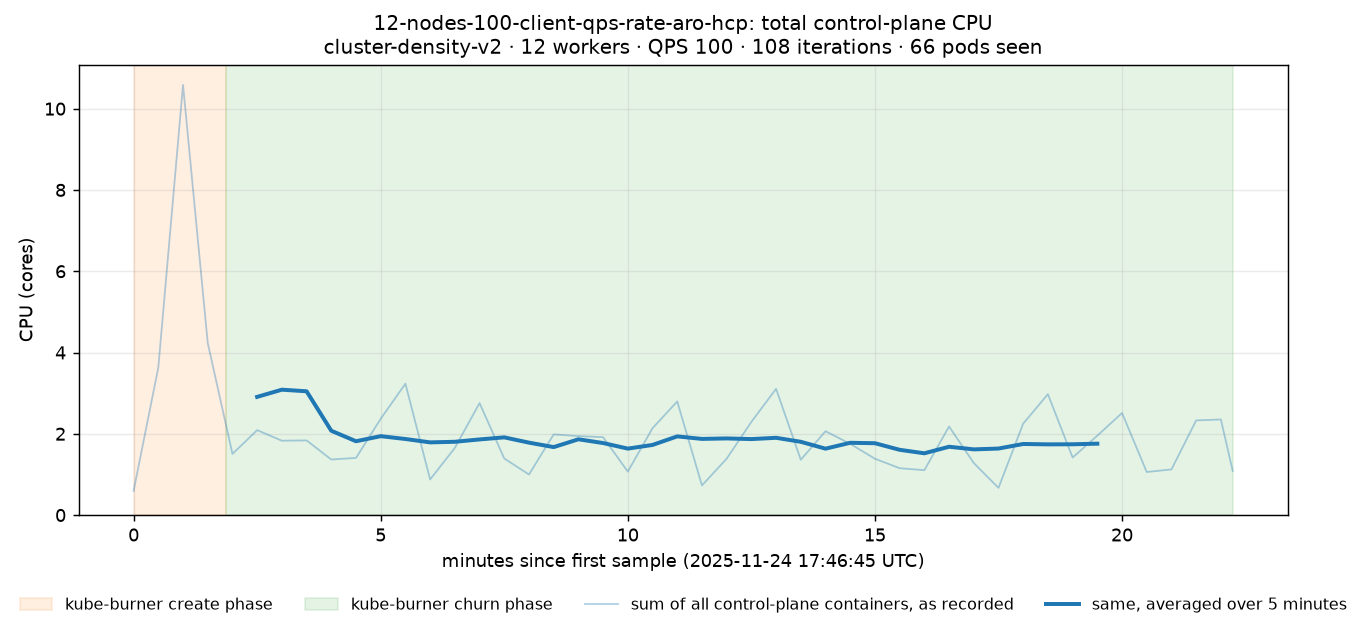
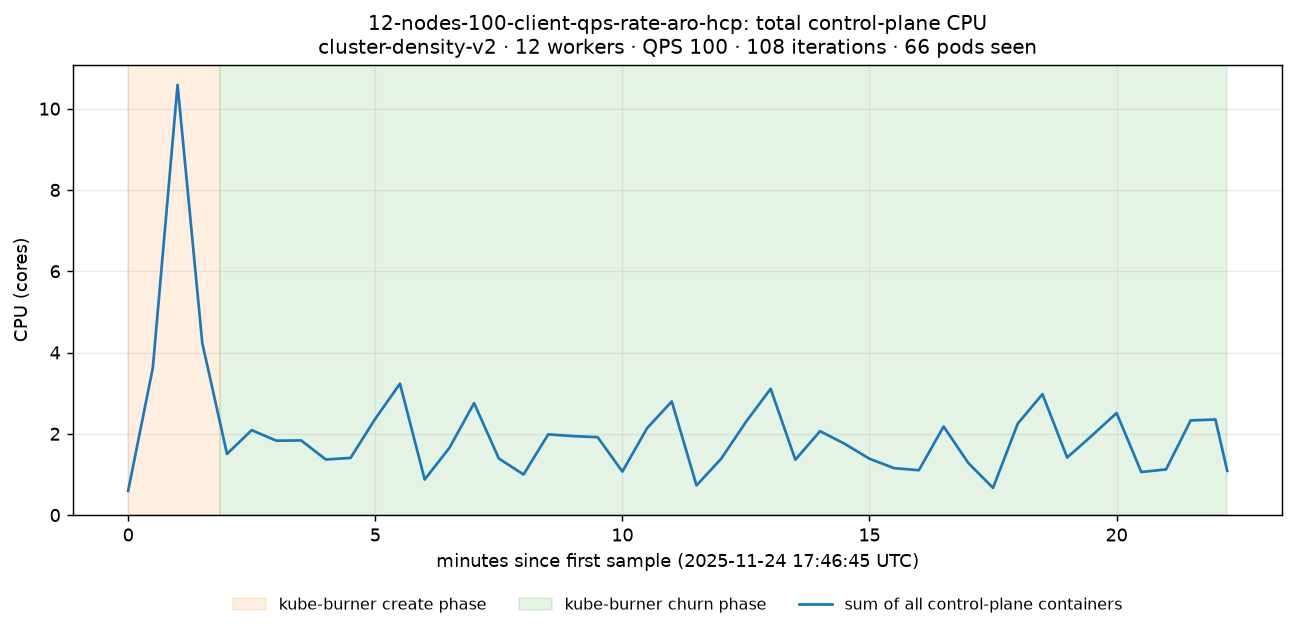
fix: drop the 5-minute average from the CPU graphs and shade missing readings

diff --git a/hack/hcp-scale-analysis/pm-page.html b/hack/hcp-scale-analysis/pm-page.html
@@ -132,7 +132,7 @@
   </section>
 </main>
 
-<script id="page-data" type="application/json">{"sizes": [{"size": "3", "run": "3-node-aro-hcp", "trust": "caveats", "date": "2026-03-03", "notes": "Memory is complete, but only 74% of CPU readings exist, so its CPU numbers, especially peaks, are less reliable. Its CPU graph marks the moments that read low, and its totals fill in the missing readings. Runs a newer OpenShift (4.20) than most runs (4.19).", "own_cores": 2.71, "total_cores": 25.19}, {"size": "6", "run": "6-node-aro-hcp", "trust": "caveats", "date": "2026-03-03", "notes": "Only 72% of CPU readings exist and a few memory readings are missing, so its CPU numbers, especially peaks, are less reliable. Its graphs mark the moments that read low, and its totals fill in the missing readings. Runs a newer OpenShift (4.20) than most runs (4.19).", "own_cores": 4.08, "total_cores": 25.19}, {"size": "12", "run": "12-nodes-20-client-qps-rate-aro-hcp", "trust": "good", "date": "2025-11-14", "notes": "Complete data. Its churn phase was set to 30 minutes instead of the usual 20, and an earlier kube-apiserver rollout was just finishing as churn began (the last old copy's last reading is 12 seconds into it), which barely affects the numbers.", "own_cores": 5.52, "total_cores": 25.19}, {"size": "30", "run": "30-node-aro-hcp", "trust": "good", "date": "2025-10-10", "notes": "Complete data.", "own_cores": 7.83, "total_cores": 25.19}, {"size": "49", "run": "49-node-hcp-raw", "trust": "caveats", "date": "2026-08-14", "notes": "Complete data, but a different setup from the other runs: newer OpenShift (4.22, most runs are 4.19) and kube-burner (1.11.12) versions, and the only run with a router. Uses more memory than the 60-node run.", "own_cores": 9.26, "total_cores": 25.19}, {"size": "60", "run": "60-node-aro-hcp", "trust": "good", "date": "2025-10-15", "notes": "Complete data, with a long churn phase (36 minutes).", "own_cores": 5.44, "total_cores": 25.21}, {"size": "120", "run": "120-node-aro-hcp", "trust": "good", "date": "2025-10-20", "notes": "Complete data, with a long churn phase (33 minutes). Its busiest kube-apiserver copy's memory levels off at about 12 GiB, the soft memory limit (GOMEMLIMIT) production sets for clusters of 61 to 120 nodes, so the limit probably held it there and its memory numbers would change with the limit.", "own_cores": 8.28, "total_cores": 25.2}, {"size": "250", "run": "250-node-aro-hcp", "trust": "good", "date": "2025-10-23", "notes": "Complete once its duplicate records are removed, which the scripts do, with a long churn phase (63 minutes). Its busiest kube-apiserver copy's memory levels off just under 24 GiB, the soft memory limit (GOMEMLIMIT) production sets for clusters of 121 to 252 nodes, so the limit probably held it there and its memory numbers would change with the limit.", "own_cores": 18.92, "total_cores": 38.89}, {"size": "500", "run": "500-node-aro-hcp", "trust": "low", "date": "2025-10-30", "notes": "No churn phase, and memory climbs until near the end: memory comes from its last 10 minutes, once it has leveled off, and CPU from the whole run, which is all create phase and so a conservative (high) estimate. The memory may be a few percent low, as in the large runs (60 to 250 nodes) churn-phase memory was 0 to 8% above the end of their create phase. Ran with 498 workers. Its duplicate records are removed by the scripts.", "own_cores": 36.59, "total_cores": 74.26}], "assumptions": ["Usage comes from one kube-burner scale test per cluster size: for each container, the 95th percentile of all its copies' readings during the test's steady churn phase. A pod reserves what its containers add up to.", "Own cores: what one cluster's own control-plane pods reserve, including a router and two login components that every cluster runs.", "Shared cores: the cluster's share of what no single cluster owns: system reservations and agents on every machine, spare room for upgrades and a zone failure, placeholder slots for new clusters, and room left unused when machines fill up on one resource first. It comes from the scheduling simulator packing a sample mix of 520 clusters (10 of 3 nodes, 10 of 6 nodes, 200 of 12 nodes, 150 of 30 nodes, 10 of 49 nodes, 80 of 60 nodes, 40 of 120 nodes, 10 of 250 nodes, 10 of 500 nodes) onto production's management-cluster machines, Standard_E32ds_v6 (32 cores, 256 GiB).", "Placement: today's placement, with 3 copies of each API server, one in each availability zone.", "No safety margin is added.", "These are estimates for planning, not an exact bill. They cover the management-cluster machines only, and don't include costs in dollars yet."], "notes_for_all_runs": "Each size has only one test run, so how much its numbers would vary between runs is unknown. The runs also weren't set up the same way: three OpenShift versions (4.19, 4.20, 4.22), four kube-burner versions (1.6.9, 1.7.9, 1.8.0, 1.11.12), a 30-second or 2-minute churn delay, and churn phases that actually lasted 20 to 63 minutes (most were set to 20), so comparing sizes partly compares setups. The shortest churn phases (20 to 23 minutes: 3, 6 and 12 nodes at 100 QPS, 30 and 49 nodes) have only about 40 to 47 readings per copy, so a copy's CPU p95 is about its third-highest reading."}</script>
+<script id="page-data" type="application/json">{"sizes": [{"size": "3", "run": "3-node-aro-hcp", "trust": "caveats", "date": "2026-03-03", "notes": "Memory is complete, but only 74% of CPU readings exist, so its CPU numbers, especially peaks, are less reliable. Its CPU graph adds a line with the missing readings filled in, and its totals fill them in too. Runs a newer OpenShift (4.20) than most runs (4.19).", "own_cores": 2.71, "total_cores": 25.19}, {"size": "6", "run": "6-node-aro-hcp", "trust": "caveats", "date": "2026-03-03", "notes": "Only 72% of CPU readings exist and a few memory readings are missing, so its CPU numbers, especially peaks, are less reliable. Its graphs add a line with the missing readings filled in, and its totals fill them in too. Runs a newer OpenShift (4.20) than most runs (4.19).", "own_cores": 4.08, "total_cores": 25.19}, {"size": "12", "run": "12-nodes-20-client-qps-rate-aro-hcp", "trust": "good", "date": "2025-11-14", "notes": "Complete data. Its churn phase was set to 30 minutes instead of the usual 20, and an earlier kube-apiserver rollout was just finishing as churn began (the last old copy's last reading is 12 seconds into it), which barely affects the numbers.", "own_cores": 5.52, "total_cores": 25.19}, {"size": "30", "run": "30-node-aro-hcp", "trust": "good", "date": "2025-10-10", "notes": "Complete data.", "own_cores": 7.83, "total_cores": 25.19}, {"size": "49", "run": "49-node-hcp-raw", "trust": "caveats", "date": "2026-08-14", "notes": "Complete data, but a different setup from the other runs: newer OpenShift (4.22, most runs are 4.19) and kube-burner (1.11.12) versions, and the only run with a router. Uses more memory than the 60-node run.", "own_cores": 9.26, "total_cores": 25.19}, {"size": "60", "run": "60-node-aro-hcp", "trust": "good", "date": "2025-10-15", "notes": "Complete data, with a long churn phase (36 minutes).", "own_cores": 5.44, "total_cores": 25.21}, {"size": "120", "run": "120-node-aro-hcp", "trust": "good", "date": "2025-10-20", "notes": "Complete data, with a long churn phase (33 minutes). Its busiest kube-apiserver copy's memory levels off at about 12 GiB, the soft memory limit (GOMEMLIMIT) production sets for clusters of 61 to 120 nodes, so the limit probably held it there and its memory numbers would change with the limit.", "own_cores": 8.28, "total_cores": 25.2}, {"size": "250", "run": "250-node-aro-hcp", "trust": "good", "date": "2025-10-23", "notes": "Complete once its duplicate records are removed, which the scripts do, with a long churn phase (63 minutes). Its busiest kube-apiserver copy's memory levels off just under 24 GiB, the soft memory limit (GOMEMLIMIT) production sets for clusters of 121 to 252 nodes, so the limit probably held it there and its memory numbers would change with the limit.", "own_cores": 18.92, "total_cores": 38.89}, {"size": "500", "run": "500-node-aro-hcp", "trust": "low", "date": "2025-10-30", "notes": "No churn phase, and memory climbs until near the end: memory comes from its last 10 minutes, once it has leveled off, and CPU from the whole run, which is all create phase and so a conservative (high) estimate. The memory may be a few percent low, as in the large runs (60 to 250 nodes) churn-phase memory was 0 to 8% above the end of their create phase. Ran with 498 workers. Its duplicate records are removed by the scripts.", "own_cores": 36.59, "total_cores": 74.26}], "assumptions": ["Usage comes from one kube-burner scale test per cluster size: for each container, the 95th percentile of all its copies' readings during the test's steady churn phase. A pod reserves what its containers add up to.", "Own cores: what one cluster's own control-plane pods reserve, including a router and two login components that every cluster runs.", "Shared cores: the cluster's share of what no single cluster owns: system reservations and agents on every machine, spare room for upgrades and a zone failure, placeholder slots for new clusters, and room left unused when machines fill up on one resource first. It comes from the scheduling simulator packing a sample mix of 520 clusters (10 of 3 nodes, 10 of 6 nodes, 200 of 12 nodes, 150 of 30 nodes, 10 of 49 nodes, 80 of 60 nodes, 40 of 120 nodes, 10 of 250 nodes, 10 of 500 nodes) onto production's management-cluster machines, Standard_E32ds_v6 (32 cores, 256 GiB).", "Placement: today's placement, with 3 copies of each API server, one in each availability zone.", "No safety margin is added.", "These are estimates for planning, not an exact bill. They cover the management-cluster machines only, and don't include costs in dollars yet."], "notes_for_all_runs": "Each size has only one test run, so how much its numbers would vary between runs is unknown. The runs also weren't set up the same way: three OpenShift versions (4.19, 4.20, 4.22), four kube-burner versions (1.6.9, 1.7.9, 1.8.0, 1.11.12), a 30-second or 2-minute churn delay, and churn phases that actually lasted 20 to 63 minutes (most were set to 20), so comparing sizes partly compares setups. The shortest churn phases (20 to 23 minutes: 3, 6 and 12 nodes at 100 QPS, 30 and 49 nodes) have only about 40 to 47 readings per copy, so a copy's CPU p95 is about its third-highest reading."}</script>
 <script>
 "use strict";
 (function () {

diff --git a/hack/hcp-scale-analysis/plot_controlplane_usage.py b/hack/hcp-scale-analysis/plot_controlplane_usage.py
@@ -6,19 +6,17 @@ pod metrics of the hosted cluster under test (the namespace containing
 jobSummary.clusterName), adds up every container at each timestamp, and writes
 these files to graphs/<dump name>/ next to this script (or to --output DIR):
 
-  total-cpu.png     total control-plane CPU (cores) over time, as recorded and averaged
-                    over 5 minutes; the average only makes the graph easier to read, as the
-                    numbers in container_usage.py and combine_usage.py use the readings as recorded
+  total-cpu.png     total control-plane CPU (cores) over time
   total-memory.png  total control-plane memory working set (GiB) over time
   summary.json      job settings, phase times, sampling interval, gaps, skipped duplicates
                     and missing readings
 
 Both graphs share one time axis and shade the kube-burner phases recorded in
 jobSummary, so a representative steady-state window can be picked by eye.
-A missing reading adds nothing to the recorded total, so where containers' readings are
-missing (as in the 3- and 6-node runs) the graphs mark each moment whose total is more than
-5% too low, and add a dashed estimate with each copy's missing readings filled in along a
-straight line from its neighboring readings. Graphs with no such moments don't change.
+A missing reading adds nothing to the recorded total, so where missing readings leave some
+moment's total more than 5% too low (as in the 3- and 6-node runs), the graphs add a dashed
+line with each copy's missing readings filled in along a straight line from its neighboring
+readings, and shade the gap between the two lines. Other graphs show only the recorded total.
 The output is meant to be committed, so it records the dump's file name but not
 the cluster ID or namespace; those are only printed to the terminal.
 
@@ -47,8 +45,7 @@ MEMORY_METRIC = "podMemory-Controlplane"  # container_memory_working_set_bytes
 CPU_TO_CORES = 1 / 100
 BYTES_TO_GIB = 1 / 1024 ** 3
 GAP_FACTOR = 1.5  # a step this many times the usual sampling interval means samples are missing
-SMOOTH_MINUTES = 5
-LOW_SHARE = 0.05  # a moment is marked when missing readings leave its recorded total more than this share low
+LOW_SHARE = 0.05  # the filled-in line is drawn when missing readings leave a moment's total more than this share low
 PHASE_COLORS = ["tab:orange", "tab:green"]
 GRAPHS_DIR = os.path.join(os.path.dirname(os.path.abspath(__file__)), "graphs")
 
@@ -160,19 +157,20 @@ def filled_in_total(copies):
 
 
 def missing_readings(readings, namespaces, metric, scale):
-    """How missing readings affect the recorded total over the whole run: (moments more than LOW_SHARE
-    low as [(time, recorded total)], the filled-in estimate as [(time, total)], a summary dict)."""
+    """How missing readings affect the recorded total over the whole run: (the total with missing
+    readings filled in as [(time, total)] if they leave any moment more than LOW_SHARE low, else [],
+    and a summary dict)."""
     copies = {(namespace, *key): sorted((when, value * scale) for when, value in values.items())
               for namespace in namespaces for key, values in readings[namespace][metric].items()}
     times, recorded, filled_in, filled, present = filled_in_total(copies)
     low_share = np.divide(filled_in - recorded, filled_in, out=np.zeros(len(times)), where=filled_in > 0)
-    low = [(when, value) for when, value, share in zip(times, recorded, low_share) if share > LOW_SHARE]
+    low = int((low_share > LOW_SHARE).sum())
     summary = {
         "share_of_readings_missing": round(filled / (filled + present), 3) if filled + present else None,
-        f"moments_more_than_{LOW_SHARE:.0%}_low".replace("%", "_percent"): len(low),
+        f"moments_more_than_{LOW_SHARE:.0%}_low".replace("%", "_percent"): low,
         "lowest_moment_low_by": round(float(low_share.max()), 3) if len(times) else None,
     }
-    return low, list(zip(times, filled_in)), summary
+    return (list(zip(times, filled_in)) if low else []), summary
 
 
 def interval_and_gaps(points):
@@ -199,20 +197,6 @@ def job_phases(job):
     return [("job", start, end)]
 
 
-def rolling_average(points, minutes):
-    """Centered moving average of [(time, value)]: each point becomes the mean of the readings
-    in the `minutes` around it, kept only where that whole window lies inside the run."""
-    half = dt.timedelta(minutes=minutes) / 2
-    first, last = points[0][0], points[-1][0]
-    averaged = []
-    for when, _ in points:
-        if when - half < first or when + half > last:
-            continue
-        window = [value for other, value in points if when - half <= other < when + half]
-        averaged.append((when, sum(window) / len(window)))
-    return averaged
-
-
 def line_points(points, origin, interval):
     """Plot coordinates (minutes, value), with a break wherever samples are missing."""
     xs, ys = [], []
@@ -225,35 +209,28 @@ def line_points(points, origin, interval):
     return xs, ys
 
 
-def plot_total(path, points, origin, interval, phases, title, ylabel, color, smooth_minutes=None,
-               low=(), estimate=()):
+def plot_total(path, points, origin, interval, phases, title, ylabel, color, filled_in=()):
     fig, ax = plt.subplots(figsize=(12, 4.5))
     for (name, start, end), shade in zip(phases, PHASE_COLORS):
         ax.axvspan(minutes_since(origin, start), minutes_since(origin, end),
                    color=shade, alpha=0.12, label=f"kube-burner {name} phase")
     xs, ys = line_points(points, origin, interval)
-    if smooth_minutes:
-        ax.plot(xs, ys, color=color, lw=1.0, alpha=0.35,
-                label="sum of all control-plane containers, as recorded")
-        smooth_xs, smooth_ys = line_points(rolling_average(points, smooth_minutes), origin, interval)
-        ax.plot(smooth_xs, smooth_ys, color=color, lw=2.2, label=f"same, averaged over {smooth_minutes} minutes")
+    if filled_in:
+        recorded = dict(points)
+        filled_xs, filled_ys = line_points(filled_in, origin, interval)
+        _, recorded_ys = line_points([(when, recorded[when]) for when, _ in filled_in], origin, interval)
+        ax.plot(xs, ys, color=color, lw=1.5, zorder=3, label="sum of all control-plane containers, as recorded")
+        ax.plot(filled_xs, filled_ys, color=color, lw=1.5, ls="--", label="same, with missing readings filled in")
+        ax.fill_between(filled_xs, recorded_ys, filled_ys, color="0.45", alpha=0.3, lw=0,
+                        label="gap left by missing readings")
     else:
         ax.plot(xs, ys, color=color, lw=1.5, label="sum of all control-plane containers")
-    if low:
-        estimated = rolling_average(estimate, smooth_minutes) if smooth_minutes else estimate
-        estimate_xs, estimate_ys = line_points(estimated, origin, interval)
-        ax.plot(estimate_xs, estimate_ys, color=color, lw=1.6, ls="--",
-                label="estimate with missing readings filled in"
-                      + (f", averaged over {smooth_minutes} minutes" if smooth_minutes else ""))
-        ax.plot([minutes_since(origin, when) for when, _ in low], [value for _, value in low], "x",
-                color="black", markersize=5, label=f"moment more than {LOW_SHARE:.0%} low (readings missing)")
     ax.set_title(title, fontsize=11)
     ax.set_xlabel(f"minutes since first sample ({origin:%Y-%m-%d %H:%M:%S} UTC)")
     ax.set_ylabel(ylabel)
     ax.set_ylim(bottom=0)
     ax.grid(True, alpha=0.25)
-    ax.legend(loc="upper center", bbox_to_anchor=(0.5, -0.15), ncol=3 if low or not smooth_minutes else 4,
-              frameon=False, fontsize=9)
+    ax.legend(loc="upper center", bbox_to_anchor=(0.5, -0.15), ncol=3, frameon=False, fontsize=9)
     fig.savefig(path, dpi=130, bbox_inches="tight")
     plt.close(fig)
 
@@ -302,14 +279,14 @@ def main():
     os.makedirs(output, exist_ok=True)
     cpu_interval, cpu_gaps = interval_and_gaps(cpu)
     memory_interval, memory_gaps = interval_and_gaps(memory)
-    cpu_low, cpu_estimate, cpu_missing = missing_readings(readings, namespaces, CPU_METRIC, CPU_TO_CORES)
-    memory_low, memory_estimate, memory_missing = missing_readings(readings, namespaces, MEMORY_METRIC, BYTES_TO_GIB)
+    cpu_filled_in, cpu_missing = missing_readings(readings, namespaces, CPU_METRIC, CPU_TO_CORES)
+    memory_filled_in, memory_missing = missing_readings(readings, namespaces, MEMORY_METRIC, BYTES_TO_GIB)
     plot_total(os.path.join(output, "total-cpu.png"), cpu, origin, cpu_interval, phases,
                f"{name}: total control-plane CPU\n{subtitle}", "CPU (cores)", "tab:blue",
-               smooth_minutes=SMOOTH_MINUTES, low=cpu_low, estimate=cpu_estimate)
+               filled_in=cpu_filled_in)
     plot_total(os.path.join(output, "total-memory.png"), memory, origin, memory_interval, phases,
                f"{name}: total control-plane memory\n{subtitle}", "memory working set (GiB)", "tab:red",
-               low=memory_low, estimate=memory_estimate)
+               filled_in=memory_filled_in)
 
     summary = {
         "dump": os.path.basename(dump),

diff --git a/hack/hcp-scale-analysis/README.md b/hack/hcp-scale-analysis/README.md
@@ -82,8 +82,7 @@ router) and two login components the test clusters didn't run, `oauth-openshift`
 with small fixed sizes.
 
 Graph images depend on the matplotlib version, so regenerating them elsewhere can change the PNG files even when
-the numbers don't change. The CPU graphs also draw a 5-minute average, only to make the spiky readings easier to
-read; none of the numbers use it.
+the numbers don't change.
 
 ## How the numbers are worked out
 
@@ -174,10 +173,10 @@ for now, used only to group the rows; costs in dollars aren't included yet. To c
 
 - Each size has only one test run, so how much the numbers vary between runs is unknown.
 - The 3- and 6-node dumps are missing about a quarter of their CPU readings, so their CPU numbers, especially
-  peaks, are less reliable. As a missing reading adds nothing to a recorded total, their graphs mark each moment
-  whose total is more than 5% too low and add a dashed estimate with the missing readings filled in, and each
-  run's `summary.json` says how many readings are missing. A missing reading at the very start or end of a
-  copy's readings can't be filled in, so it isn't marked.
+  peaks, are less reliable. As a missing reading adds nothing to a recorded total, their graphs add a dashed line
+  with the missing readings filled in and shade the gap between the two lines, and each run's `summary.json` says
+  how many readings are missing. A missing reading at the very start or end of a copy's readings can't be filled
+  in, so it doesn't show as a gap.
 - The CPU metric drops readings of exactly zero, so idle containers show fewer readings.
 - Churn phases of 20–23 minutes have only about 40 to 47 readings per copy, so a copy's CPU p95 is about its
   third-highest reading.
